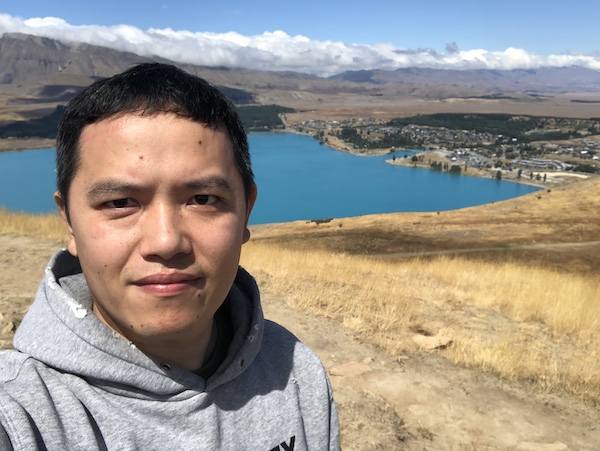
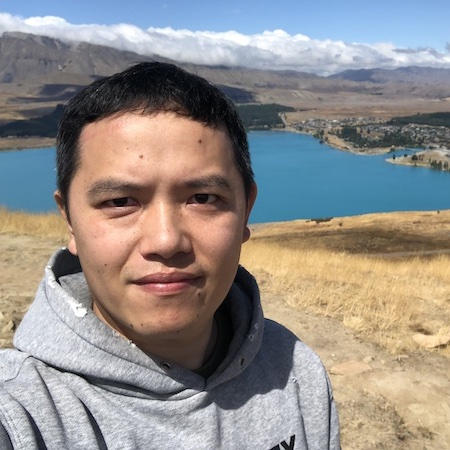
finished homepage, added techpage and techCSS

diff --git a/index.html b/index.html
@@ -3,41 +3,89 @@
   <head>
     <title>Lei's learning journey</title>
     <meta charset="UTF-8" >
-    <link ref="stylesheet" href="/styles/main.css">
+    <link rel="stylesheet" type="text/css" href="/styles/main.css" > 
     <meta name="viewport" content="width=device-width, initial-scale=1">
+    <link rel="preconnect" href="https://fonts.googleapis.com">
+    <link rel="preconnect" href="https://fonts.gstatic.com" crossorigin>
+    <link href="https://fonts.googleapis.com/css2?family=Bebas+Neue&display=swap" rel="stylesheet">
+    <link rel="preconnect" href="https://fonts.googleapis.com">
+    <link rel="preconnect" href="https://fonts.gstatic.com" crossorigin>
+    <link href="https://fonts.googleapis.com/css2?family=Bebas+Neue&family=Dancing+Script:wght@700&display=swap" rel="stylesheet">
+    <link rel="preconnect" href="https://fonts.googleapis.com">
+    <link rel="preconnect" href="https://fonts.gstatic.com" crossorigin>
+    <link href="https://fonts.googleapis.com/css2?family=Bebas+Neue&family=Crimson+Text:ital,wght@0,400;0,600;0,700;1,400;1,600;1,700&family=Dancing+Script:wght@700&family=Roboto+Condensed:ital,wght@0,100..900;1,100..900&display=swap" rel="stylesheet">  
   </head>
   <body>
     <nav class="nav-flex">
       <a href="/index.html">
-        <img src="/photos/IMG_3626.jpg" alt="lei's selfie in lake tekapo" id="selfie">
+        <img src="/photos/IMG_3626.jpg" alt="lei's selfie in lake tekapo">
       </a>
       <a href="/blog/technical.html">Technical Blog</a>
       <a href="/blog/cultural.html">Cultural Blog</a>
       <a href="/blog/reflections.html">Reflections</a>
       <a href="/blog/contact.html">Contact Me</a>
       </nav>
-    <h1>Lei's learning journey</h1> 
-    <p>Dev academy web developer project</p>
-    <div>
-      <div><p>Latest Blog</p></div>
-      <div>
+    <div class="hdiv">
+      <h1>Lei's learning journey</h1> 
+      <p class="subtitle">a Dev academy web development project</p>
+    </div>
+    <div class="div-container">
+      <div class="div1">
         <img scr="" alt="">
-        <p> It will eventually contain a list of links to all my blogs.</p>
-        <p>updated on .....</p>
+        <p class="p-style">
+          Kia ora everyone, I'm Lei Zheng,  please call me "Lay."
+        </p>
+        <p class="p-style">Welcome to my blog. I currently reside in Christchurch 
+          with my wife and two wonderful kids while juggling a full-time job.
+        </p>
+        <p class="p-style">Since my youth, I've been captivated by coding and 
+          harbored aspirations of becoming a software developer. 
+          However, my career took a different path upon moving to New Zealand, 
+          leading me to a physically demanding job.
+        </p>
+        <p class="p-style">Last year, I had an epiphany: my true passion 
+          lies in coding. This realization prompted me to enroll in 
+          Dev Academy, where I could reignite my love for coding and pursue 
+          a career aligned with my interests.
+        </p>
+        <p class="p-style">This blog marks my inaugural venture into 
+          self-built platforms, and I've relished every moment of its 
+          creation. From meticulous layout designs to experimenting with 
+          CSS properties, crafting this blog has been immensely enjoyable.
+        </p>
+        <p class="p-style">At its current stage, this blog remains a 
+          prototype, utilizing only HTML and CSS. I eagerly anticipate 
+          the next phase, where I'll delve into JavaScript during the 
+          upcoming sprint.
+        </p>
+        <p class="p-style">
+          Thank you for joining me on this journey, and I look forward 
+          to sharing more updates with you soon.
+        </p>
+        <p class="p-style"><span>Ciao</span></p>
+        <p class="datefont p-style">Updated on 29/02/2024</p>
       </div>
-      <div> 
+      <div class="div2"><h2>Latest Blog</h2></div>
+      <div class="div3"> 
         <img scr="" alt="">
-        <p> It will eventually contain a list of links to all my blogs.</p>
-        <p>updated on .....</p>
+        <p class="p-style"> It will eventually contain a list of links to all my blogs.</p>
+        <p class="datefont p-style">Updated on .....</p>
       </div>
-      <div>
+      <div class="div3">
         <img scr="" alt="">
-        <p> It will eventually contain a list of links to all my blogs.</p>
-        <p>updated on .....</p>
+        <p class="p-style"> It will eventually contain a list of links to all my blogs.</p>
+        <p class="datefont p-style">Updated on .....</p>
+      </div>
+      <div class="div3">
+        <img scr="" alt="">
+        <p class="p-style"> It will eventually contain a list of links to all my blogs.</p>
+        <p class="datefont p-style">Updatedd on .....</p>
       </div>
     </div>
   </body>
   <footer>
-     
+     <p>if you are interested in full stack web development please visit 
+      <a href="https://devacademy.co.nz/" target=”_blank”>Dev academy</a> 
+      website for more information.</p>
   </footer>
 </html>

diff --git a/blog/technical.html b/blog/technical.html
@@ -1,0 +1,90 @@
+<!DOCTYPE html>
+<html lang="en">
+  <head>
+    <title>technical blog</title>
+    <meta charset="UTF-8" >
+    <link rel="stylesheet" type="text/css" href="/styles/main.css" > 
+    <meta name="viewport" content="width=device-width, initial-scale=1">
+    <link rel="preconnect" href="https://fonts.googleapis.com">
+    <link rel="preconnect" href="https://fonts.gstatic.com" crossorigin>
+    <link href="https://fonts.googleapis.com/css2?family=Bebas+Neue&display=swap" rel="stylesheet">
+    <link rel="preconnect" href="https://fonts.googleapis.com">
+    <link rel="preconnect" href="https://fonts.gstatic.com" crossorigin>
+    <link href="https://fonts.googleapis.com/css2?family=Bebas+Neue&family=Dancing+Script:wght@700&display=swap" rel="stylesheet">
+    <link rel="preconnect" href="https://fonts.googleapis.com">
+    <link rel="preconnect" href="https://fonts.gstatic.com" crossorigin>
+    <link href="https://fonts.googleapis.com/css2?family=Bebas+Neue&family=Crimson+Text:ital,wght@0,400;0,600;0,700;1,400;1,600;1,700&family=Dancing+Script:wght@700&family=Roboto+Condensed:ital,wght@0,100..900;1,100..900&display=swap" rel="stylesheet">  
+  </head>
+  <body>
+    <nav class="nav-flex">
+      <a href="/index.html">
+        <img src="/photos/IMG_3626.jpg" alt="lei's selfie in lake tekapo">
+      </a>
+      <a href="/blog/technical.html">Technical Blog</a>
+      <a href="/blog/cultural.html">Cultural Blog</a>
+      <a href="/blog/reflections.html">Reflections</a>
+      <a href="/blog/contact.html">Contact Me</a>
+      </nav>
+    <div class="hdiv">
+      <h1>Lei's learning journey</h1> 
+      <p class="subtitle">a Dev academy web development project</p>
+    </div>
+    <div class="div-container">
+      <div class="div1">
+        <img scr="" alt="">
+        <p class="p-style">
+          Kia ora everyone, I'm Lei Zheng,  please call me "Lay."
+        </p>
+        <p class="p-style">Welcome to my blog. I currently reside in Christchurch 
+          with my wife and two wonderful kids while juggling a full-time job.
+        </p>
+        <p class="p-style">Since my youth, I've been captivated by coding and 
+          harbored aspirations of becoming a software developer. 
+          However, my career took a different path upon moving to New Zealand, 
+          leading me to a physically demanding job.
+        </p>
+        <p class="p-style">Last year, I had an epiphany: my true passion 
+          lies in coding. This realization prompted me to enroll in 
+          Dev Academy, where I could reignite my love for coding and pursue 
+          a career aligned with my interests.
+        </p>
+        <p class="p-style">This blog marks my inaugural venture into 
+          self-built platforms, and I've relished every moment of its 
+          creation. From meticulous layout designs to experimenting with 
+          CSS properties, crafting this blog has been immensely enjoyable.
+        </p>
+        <p class="p-style">At its current stage, this blog remains a 
+          prototype, utilizing only HTML and CSS. I eagerly anticipate 
+          the next phase, where I'll delve into JavaScript during the 
+          upcoming sprint.
+        </p>
+        <p class="p-style">
+          Thank you for joining me on this journey, and I look forward 
+          to sharing more updates with you soon.
+        </p>
+        <p class="p-style"><span>Ciao</span></p>
+        <p class="datefont p-style">Updated on 29/02/2024</p>
+      </div>
+      <div class="div2"><h2>Latest Blog</h2></div>
+      <div class="div3"> 
+        <img scr="" alt="">
+        <p class="p-style"> It will eventually contain a list of links to all my blogs.</p>
+        <p class="datefont p-style">Updated on .....</p>
+      </div>
+      <div class="div3">
+        <img scr="" alt="">
+        <p class="p-style"> It will eventually contain a list of links to all my blogs.</p>
+        <p class="datefont p-style">Updated on .....</p>
+      </div>
+      <div class="div3">
+        <img scr="" alt="">
+        <p class="p-style"> It will eventually contain a list of links to all my blogs.</p>
+        <p class="datefont p-style">Updatedd on .....</p>
+      </div>
+    </div>
+  </body>
+  <footer>
+     <p>if you are interested in full stack web development please visit 
+        <a href="https://devacademy.co.nz/" target=”_blank”>Dev academy</a> website for more information.</p>
+  </footer>
+</html>

diff --git a/styles/main.css b/styles/main.css
@@ -1,0 +1,123 @@
+html, body {
+    background-color: #f7f7f7;
+    height: 100%;
+    width: 100%;
+    margin: 0;
+    
+}
+.nav-flex {
+    display: flex;
+    background-color: #004265;
+    justify-content: space-evenly;
+    align-items: center;
+    position: sticky;
+    top: 0;
+    font-family: "Bebas Neue", sans-serif;
+    font-weight: 400;
+    font-style: normal;
+    
+}
+body nav a img {
+    height: 50px;
+    width: 50px;
+    border-radius: 60%;
+    margin-top: 4px;
+}
+
+nav a {
+    text-decoration: none;
+    color:#f7f8fa;
+    font-size: 1.5rem;
+}
+.hdiv {
+    background: url(/photos/background-image.jpg) no-repeat center fixed;
+    background-size: cover;
+    padding-top: 6rem;
+    padding-bottom: 15rem;
+}
+h1 {
+    color: #f7f8fa;
+    text-align: center;
+    font-size: 3rem;
+    font-family: "Crimson Text", serif;
+    font-weight: 600;
+    font-style: normal;
+
+}
+.subtitle {
+    color: #f7f8fa;
+    text-align: center;
+    font-size: 1.3rem;
+    font-family: "Dancing Script", cursive;
+    font-optical-sizing: auto;
+    font-weight: 600;
+    font-style: normal;
+    
+}
+
+.div-container {
+    color: #494949;
+    display: grid;
+    grid-template-columns: 2fr 1fr;
+    grid-template-rows: 1fr 1fr 1fr 1fr;
+    gap: 1rem;
+    margin-top: -5.4rem;
+}
+.p-style {
+    text-indent: 1rem;
+    padding-left: 1rem;
+    padding-right: 1rem;
+    font-family: "Crimson Text", serif;
+    font-weight: 400;
+    font-style: normal;
+}
+.div1 {
+    background-color: #ffffff;
+    font-size: 1.2rem;
+    grid-column-start: 1;
+    grid-column-end: 2;
+    grid-row: 1 / 5;
+    border-radius: 5px;
+    box-shadow: 0 4px 8px 0 rgba(0, 0, 0, 0.2), 0 6px 20px 0 rgba(0, 0, 0, 0.19);
+}
+.div2 {
+    display: flex;
+    justify-content: center;
+    align-items: flex-end;
+    border-bottom: solid #d7e1e9;    
+}
+h2 {
+    font-family: "Crimson Text", serif;
+    font-weight: 600;
+    font-style: normal;
+}
+    
+.div3 {
+    font-size: 1.2rem;
+    border-radius: 5px;
+    background-color: #ffffff;
+    border-bottom: solid #d7e1e9;
+    box-shadow: 0 4px 8px 0 rgba(0, 0, 0, 0.2), 0 6px 20px 0 rgba(0, 0, 0, 0.19);
+    
+}
+footer {
+    color: #494949;
+   /* color: #017dba;*/
+    border-top: solid #d7e1e9;
+    margin-top: 2rem;
+    padding-bottom: 0.3rem;
+    text-align: center;
+    font-family: "Crimson Text", serif;
+    font-weight: 400;
+    font-style: normal;
+    font-size: 1.1rem;
+}
+footer p a {
+    text-decoration: none;
+    font-style: italic;
+
+}
+span {
+    font-style: italic;
+
+}
